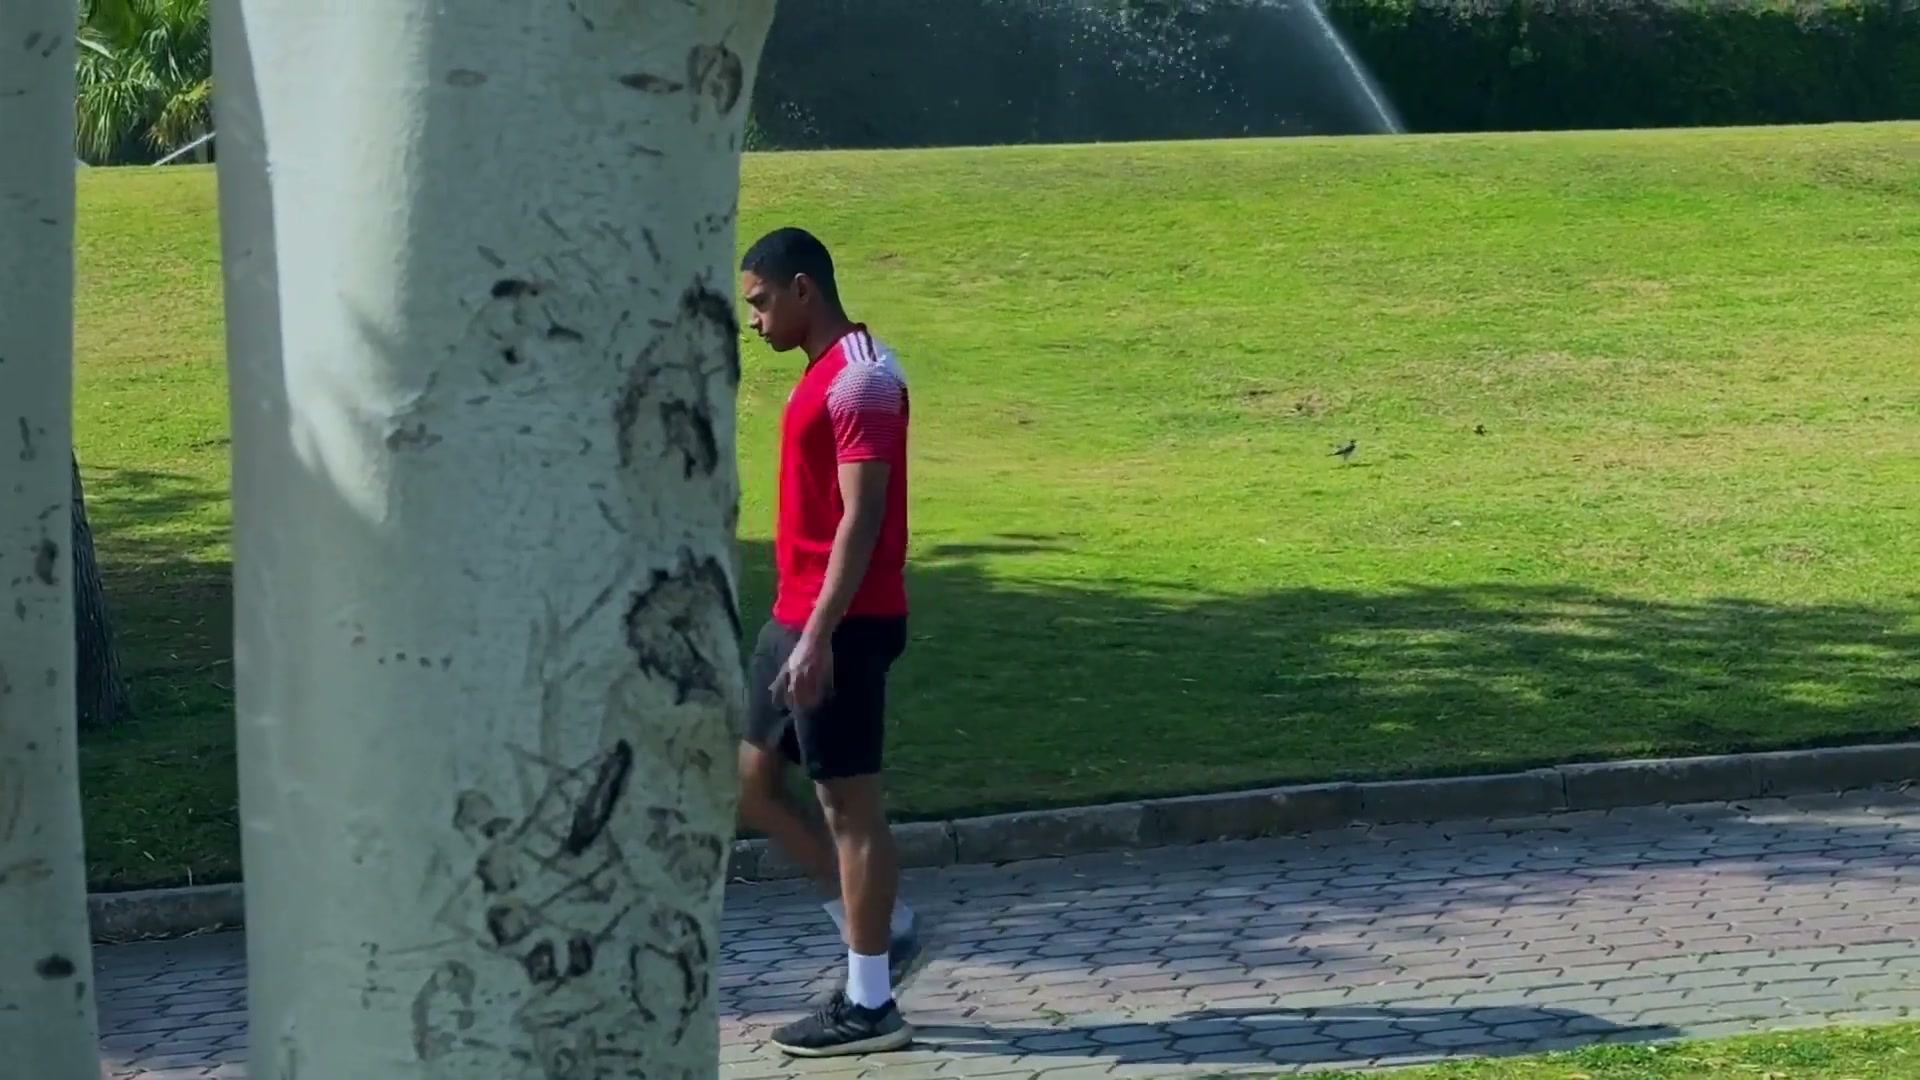
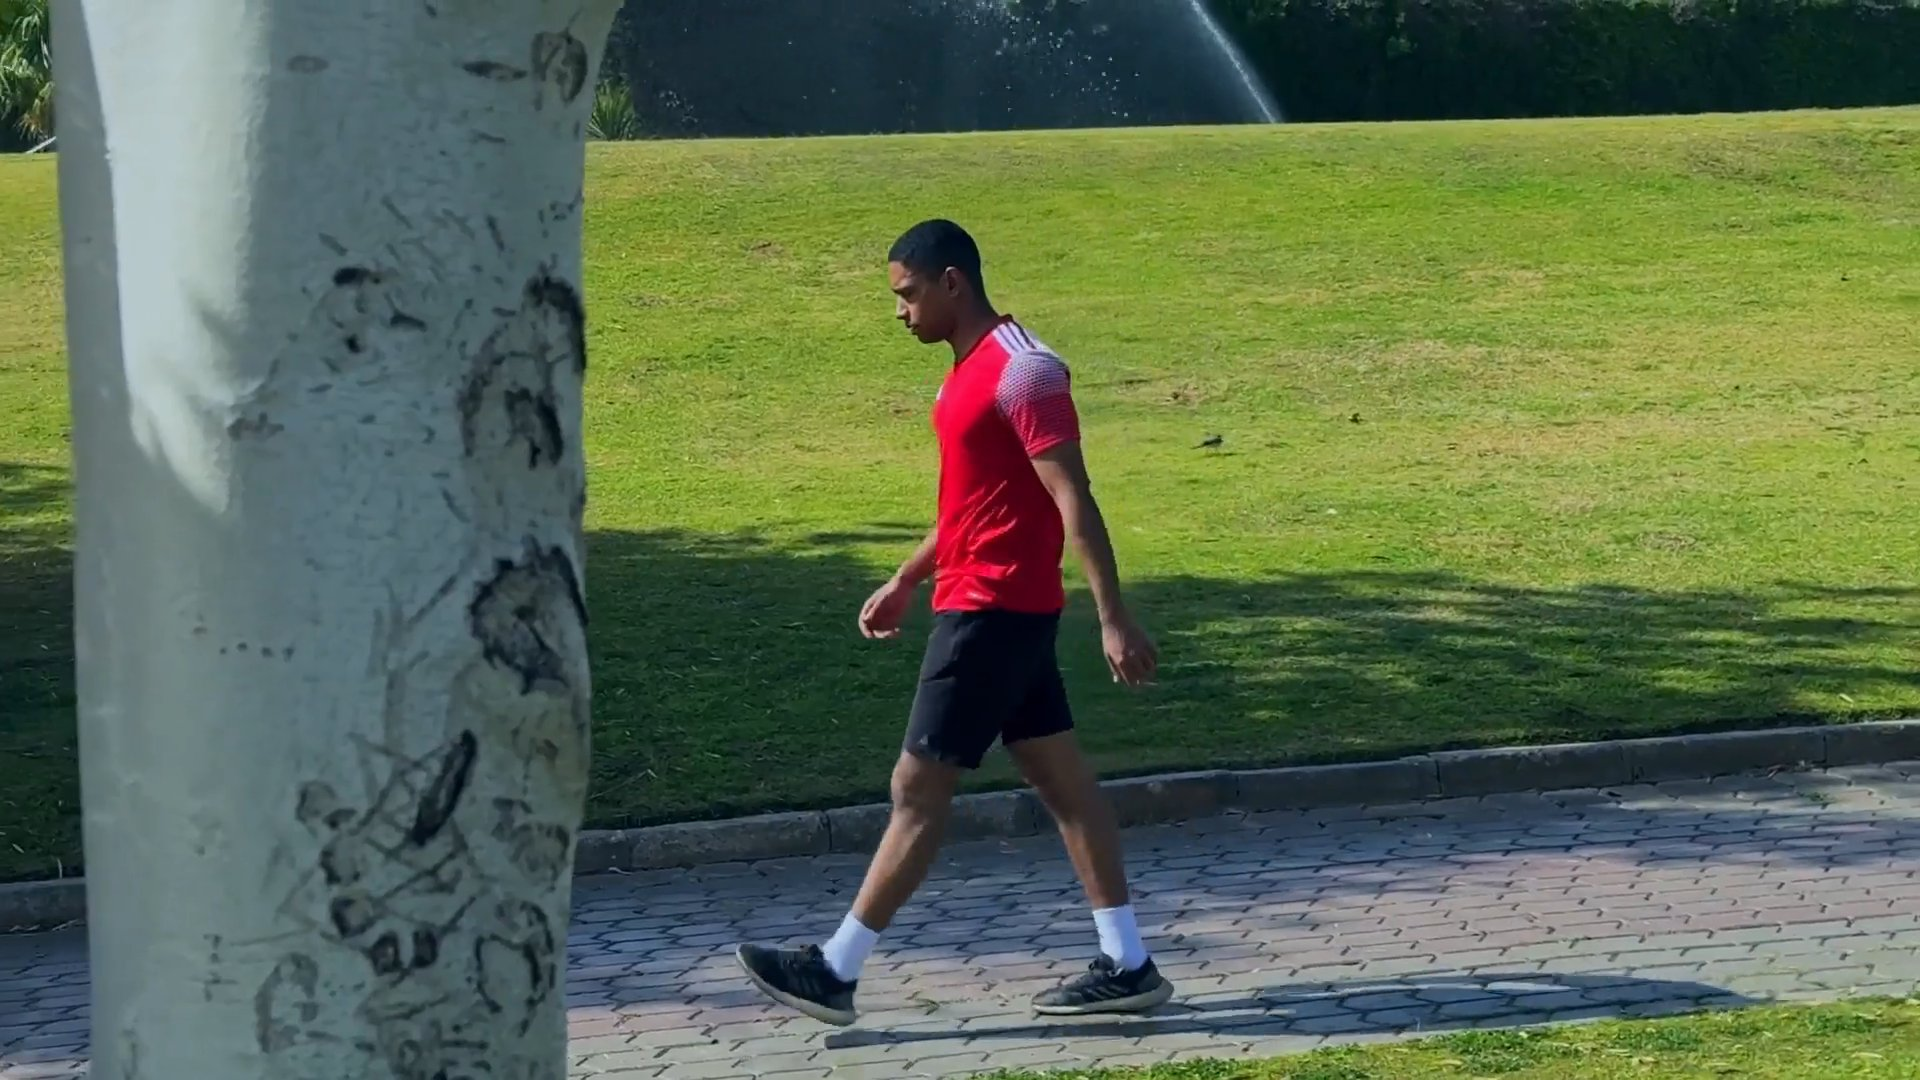
fix: regenerate pristine unzoomed thumbnails and ensure instant load on first paint

diff --git a/scripts/posters.ts b/scripts/posters.ts
@@ -1,7 +1,6 @@
 import { execSync } from 'node:child_process';
-import { existsSync, mkdirSync, unlinkSync, createWriteStream } from 'node:fs';
+import { existsSync, mkdirSync, unlinkSync, statSync } from 'node:fs';
 import { join } from 'node:path';
-import https from 'node:https';
 import sharp from 'sharp';
 
 interface Project {
@@ -13,40 +12,13 @@ interface Project {
 }
 
 export const PROJECTS: Project[] = [
-  { slug: 'muscle-up-basics', source: 'work/muscle-up-basics.mp4', time: '00:00:02.5', youtubeId: 'G_f04GBBKGU' },
-  { slug: 'finalll', source: 'work/finalll.mp4', time: '00:00:02.5', youtubeId: 'aBPZhiIMj_s' },
-  { slug: 'skin-and-pain', source: 'work/skin-and-pain.mp4', time: '00:00:02.5', youtubeId: '5LSBdHHF-0o' },
-  { slug: 'blood-sugar-test', source: 'work/blood-sugar-test.mp4', time: '00:00:02.5', youtubeId: 'eLpztUn5xTQ' },
-  { slug: 'nimun-recap', source: 'work/nimun-recap.mov', time: '00:00:02.5', youtubeId: 'B4V5lTdMy1s' },
-  { slug: 'running-film', source: 'work/running-film.mp4', time: '00:00:02.5', youtubeId: 'm_MjsGfVXVc', isLandscape: true },
+  { slug: 'muscle-up-basics', source: 'work/muscle-up-basics.mp4', time: '00:00:02', youtubeId: 'G_f04GBBKGU' },
+  { slug: 'finalll', source: 'work/finalll.mp4', time: '00:00:02', youtubeId: 'aBPZhiIMj_s' },
+  { slug: 'skin-and-pain', source: 'work/skin-and-pain.mp4', time: '00:00:02', youtubeId: '5LSBdHHF-0o' },
+  { slug: 'blood-sugar-test', source: 'work/blood-sugar-test.mp4', time: '00:00:02', youtubeId: 'eLpztUn5xTQ' },
+  { slug: 'nimun-recap', source: 'work/nimun-recap.mov', time: '00:00:02', youtubeId: 'B4V5lTdMy1s' },
+  { slug: 'running-film', source: 'work/running-film.mp4', time: '00:00:02', youtubeId: 'm_MjsGfVXVc', isLandscape: true },
 ];
-
-async function downloadYoutubeThumbnail(youtubeId: string, dest: string): Promise<boolean> {
-  return new Promise((resolve) => {
-    const file = createWriteStream(dest);
-    https.get(`https://i.ytimg.com/vi/${youtubeId}/maxresdefault.jpg`, (res) => {
-      if (res.statusCode === 200) {
-        res.pipe(file);
-        file.on('finish', () => {
-          file.close();
-          resolve(true);
-        });
-      } else {
-        https.get(`https://i.ytimg.com/vi/${youtubeId}/hqdefault.jpg`, (resHq) => {
-          if (resHq.statusCode === 200) {
-            resHq.pipe(file);
-            file.on('finish', () => {
-              file.close();
-              resolve(true);
-            });
-          } else {
-            resolve(false);
-          }
-        });
-      }
-    }).on('error', () => resolve(false));
-  });
-}
 
 export async function generatePosters(force = false): Promise<void> {
   const postersDir = join(process.cwd(), 'public/posters');
@@ -55,74 +27,30 @@ export async function generatePosters(force = false): Promise<void> {
   for (const p of PROJECTS) {
     const webpPath = join(postersDir, `${p.slug}.webp`);
     const jpgPath = join(postersDir, `${p.slug}.jpg`);
-    const tmpJpg = join(postersDir, `_tmp_${p.slug}.jpg`);
+    const tmpPng = join(postersDir, `_tmp_${p.slug}.png`);
 
     if (!force && existsSync(webpPath) && existsSync(jpgPath)) {
       continue;
     }
 
-    let extracted = false;
-
-    // 1. Try local extraction with ffmpeg ensuring full-frame vertical (9:16) for reels and landscape (16:9) for film
     if (existsSync(p.source)) {
       try {
-        let vfFilter = '';
-        if (p.isLandscape) {
-          // Full HD 16:9 landscape
-          vfFilter = 'scale=1920:1080:flags=lanczos,setsar=1';
-        } else if (p.slug === 'nimun-recap') {
-          // 4:5 source -> crop to full vertical 9:16 frame (1080x1920)
-          vfFilter = 'scale=1080:1920:force_original_aspect_ratio=increase,crop=1080:1920,setsar=1';
-        } else {
-          // Anamorphic vertical 9:16 source (1080x1080 with SAR 9:16) -> expand to true 1080x1920
-          vfFilter = 'scale=1080:1920:flags=lanczos,setsar=1';
+        const vf = p.isLandscape
+          ? 'scale=1920:1080:force_original_aspect_ratio=decrease,pad=1920:1080:(ow-iw)/2:(oh-ih)/2'
+          : 'scale=1080:1920:force_original_aspect_ratio=decrease,pad=1080:1920:(ow-iw)/2:(oh-ih)/2';
+
+        execSync(`ffmpeg -y -ss ${p.time} -i "${p.source}" -vf "${vf}" -frames:v 1 -q:v 2 "${tmpPng}"`, { stdio: 'ignore' });
+
+        if (existsSync(tmpPng)) {
+          const quality = p.slug === 'nimun-recap' ? 76 : 82;
+          await sharp(tmpPng).webp({ quality }).toFile(webpPath);
+          await sharp(tmpPng).jpeg({ quality: 85 }).toFile(jpgPath);
+          unlinkSync(tmpPng);
+          const sizeKb = (statSync(webpPath).size / 1024).toFixed(1);
+          console.log(`✓ Generated unzoomed poster for ${p.slug} (${sizeKb} KB)`);
         }
-
-        execSync(`ffmpeg -y -ss ${p.time} -i "${p.source}" -vf "${vfFilter}" -frames:v 1 -q:v 2 "${tmpJpg}"`, { stdio: 'ignore' });
-
-        if (existsSync(tmpJpg)) {
-          await sharp(tmpJpg).webp({ quality: 92 }).toFile(webpPath);
-          await sharp(tmpJpg).jpeg({ quality: 92 }).toFile(jpgPath);
-          unlinkSync(tmpJpg);
-          extracted = true;
-          console.log(`✓ Generated full-frame poster for ${p.slug} (${p.isLandscape ? '16:9 landscape' : '9:16 vertical'})`);
-        }
-      } catch {
-        extracted = false;
-      }
-    }
-
-    // 2. Fallback to YouTube maxresdefault thumbnail with intelligent center crop for vertical shorts
-    if (!extracted) {
-      console.log(`Fetching YouTube fallback for ${p.slug}...`);
-      const downloaded = await downloadYoutubeThumbnail(p.youtubeId, tmpJpg);
-      if (downloaded && existsSync(tmpJpg)) {
-        if (!p.isLandscape) {
-          // If fallback image is horizontal (16:9 like YouTube shorts thumbnails with pillarboxes), crop the center 9:16
-          const meta = await sharp(tmpJpg).metadata();
-          if (meta.width && meta.height && meta.width > meta.height) {
-            const cropWidth = Math.round((meta.height * 9) / 16);
-            const left = Math.round((meta.width - cropWidth) / 2);
-            await sharp(tmpJpg)
-              .extract({ left, top: 0, width: cropWidth, height: meta.height })
-              .resize(1080, 1920)
-              .webp({ quality: 92 })
-              .toFile(webpPath);
-            await sharp(tmpJpg)
-              .extract({ left, top: 0, width: cropWidth, height: meta.height })
-              .resize(1080, 1920)
-              .jpeg({ quality: 92 })
-              .toFile(jpgPath);
-            unlinkSync(tmpJpg);
-            console.log(`✓ Cropped and saved vertical 9:16 YouTube fallback for ${p.slug}`);
-            continue;
-          }
-        }
-
-        await sharp(tmpJpg).webp({ quality: 92 }).toFile(webpPath);
-        await sharp(tmpJpg).jpeg({ quality: 92 }).toFile(jpgPath);
-        unlinkSync(tmpJpg);
-        console.log(`✓ Fetched YouTube thumbnail fallback for ${p.slug}`);
+      } catch (err) {
+        console.error(`Failed to extract poster for ${p.slug}:`, err);
       }
     }
   }
